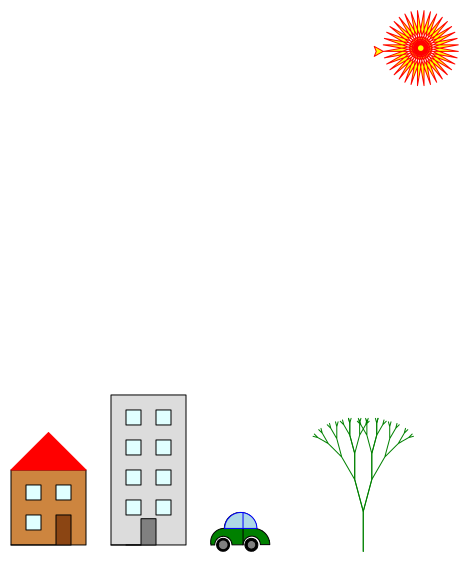
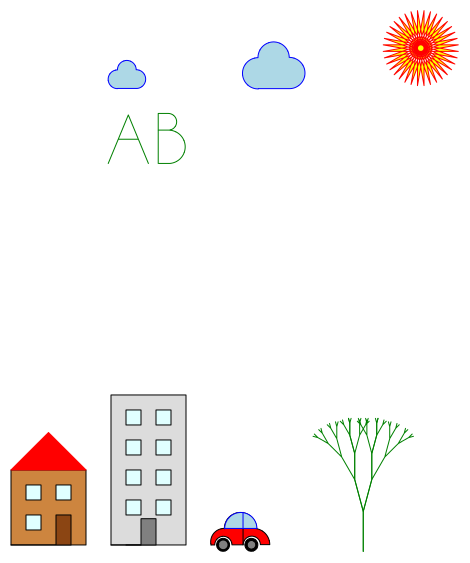
Added write and draw letter functions for letters a and b

diff --git a/TurtleInTheCity.py b/TurtleInTheCity.py
@@ -1,5 +1,6 @@
 import turtle
 from time import sleep
+import math
 try:
     import canvasvg
 except ImportError:
@@ -41,7 +42,7 @@ class Drawer:
         self.t.fillcolor(color)
 
     def PenSize(self, size):
-        self.t.pensize()
+        self.t.pensize(size)
 
     def DrawCircle(self, size):
         realsize = size / 90
@@ -474,10 +475,86 @@ class Drawer:
         self.t.forward(size/8)
         self.t.pendown()
 
+    def Write(self, text, size, color='black'):
+        c = 0
+        length = len(text)
+        lower = text.lower()
+
+        for i in range(length):
+            letter = lower[i]
+            if letter == 'a':
+                self.DrawLetterA(size, color)
+            elif letter == 'b':
+                self.DrawLetterB(size, color)
+
+            self.MoveRight(size)
+            c += 1
+
+        for i in range(c):
+            self.MoveLeft(size)
+
+        self.t.setheading(0)
+
+    def DrawLetterA(self, size, color='black'):
+        side = size + (size / 20)
+        angle = 45
+        halfside = side/2
+        cos = math.cos(angle)
+        # middle = math.sqrt((math.pow(back, back) + math.pow(back, back)) - ((2 * back * back) * cos))
+        # print(middle)
+        # middle = 19.134
+        middle = halfside * math.sqrt(2 - math.sqrt(2))
+        start = side * math.sqrt(2 - math.sqrt(2))
+
+        self.t.pencolor(color)
+        self.t.pendown()
+        self.t.setheading(67.5)
+        self.t.forward(side)
+        self.t.right(180-angle)
+        self.t.forward(side)
+        self.t.right(180)
+        self.t.forward(halfside)
+        self.t.setheading(180)
+        self.t.forward(middle)
+        self.t.backward(middle)
+        self.t.setheading(-67.5)
+        self.t.forward(halfside)
+        self.t.setheading(0)
+        self.t.penup()
+        self.t.backward(start)
+        self.t.pendown()
+
+    def DrawLetterB(self, size, color='black'):
+        side = size
+        side3 = side/3
+        side32 = (side/3)*2
+        angles = 180
+        halfcircle1 = ((math.pi * side3) / 2) / 180
+        halfcircle2 = ((math.pi * side32) / 2) / 180
+
+        self.t.pencolor(color)
+        self.t.pendown()
+        self.t.setheading(90)
+        self.t.forward(side)
+        self.t.setheading(0)
+        self.t.forward(side/5)
+        for i in range(angles):
+            self.t.forward(halfcircle1)
+            self.t.right(1)
+        self.t.forward(side/5)
+        self.t.setheading(0)
+        self.t.forward(side / 5)
+        for i in range(angles):
+            self.t.forward(halfcircle2)
+            self.t.right(1)
+        self.t.forward(side / 5)
+        self.t.setheading(0)
+
 
 if __name__ == '__main__':
     Scene = Drawer()
     Scene.SetSpeed(0)
-    Scene.DrawCloud(25)
-    Scene.RenderSVG('CloudMovement')
+    # Scene.Write("rafayel", 15)
+    Scene.DrawCar(50)
+    Scene.Write('AB', 100, 'red')
     input()
